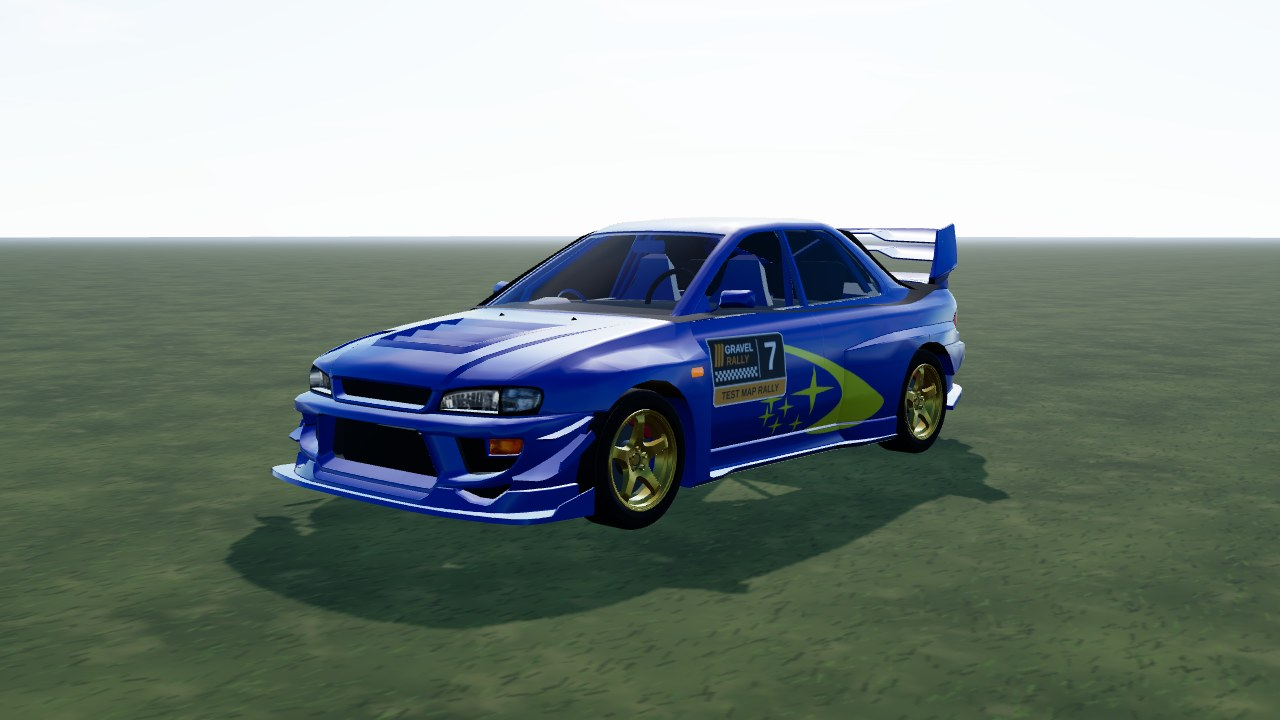
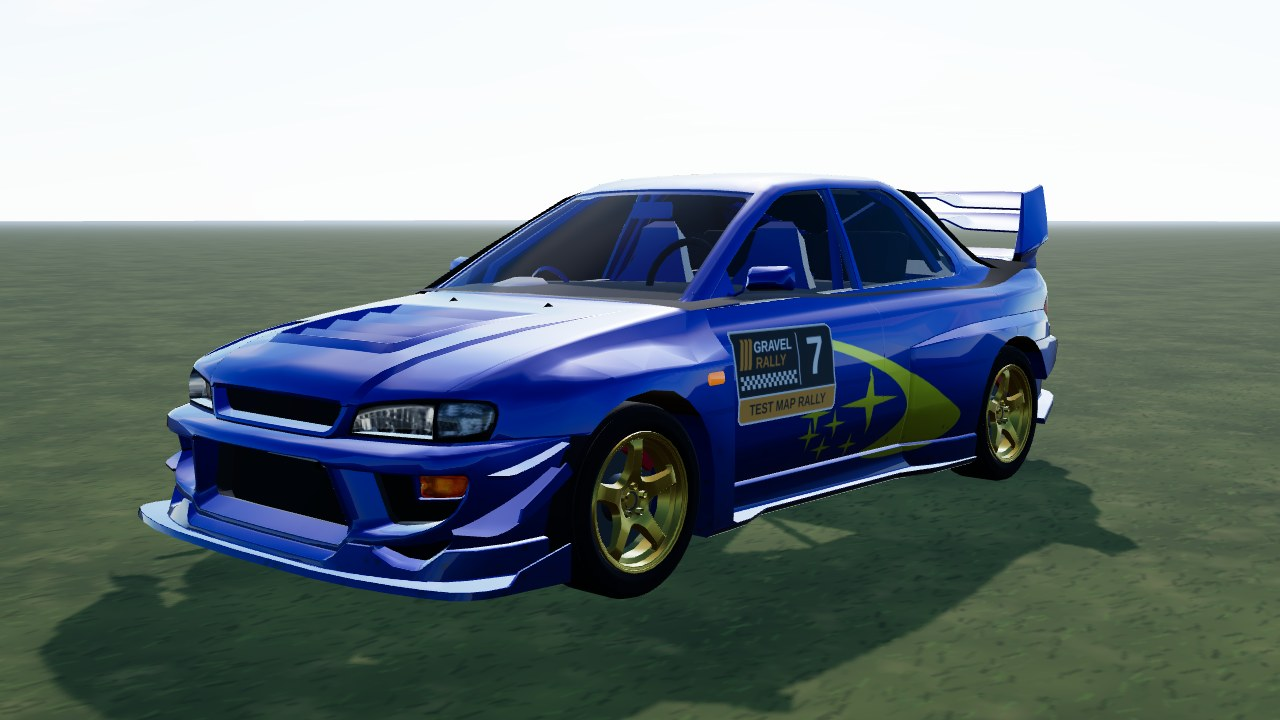
22B: metallic paint with dust and road spray
- `gltf.metallic` finish: more metal, glossier clearcoat
- sill dust fade + speckle round the arches on the body atlas
- retake screenshots

diff --git a/src/games/rally/cars/subie-22b/livery.ts b/src/games/rally/cars/subie-22b/livery.ts
@@ -1,3 +1,4 @@
+import { Rng } from '../../../../shared/rng';
 import { atlasKit, type Pt } from '../shared/atlas-painter';
 import type { LiveryInfo } from '../shared/livery';
 import type { CarAtlas } from '../shared/types';
@@ -10,7 +11,7 @@ import source from './model.source.json';
  * (no lettering), always pointing forward.
  */
 const A = source.atlas;
-const { K, B, CH, Painter } = atlasKit(A);
+const { K, B, CH, Painter, sidePx, frontPx, rearPx } = atlasKit(A);
 
 const YELLOW = '#e8f03a';
 /** Vertical extent on the body side (m): 10 cm above the body's lower edge up to 10 cm below the window sills. */
@@ -101,7 +102,66 @@ const at = ([x, y]: Pt): Pt => [
   Y_BOTTOM + (REF_Y[1] - y) * PX,
 ];
 
-function paint(ctx: CanvasRenderingContext2D, info: LiveryInfo): void {
+/** Dust and mud on the lower body: a fade towards the sills on every chart, plus road-spray speckle round the arches. */
+function weather(ctx: CanvasRenderingContext2D, seed: number): void {
+  const rng = new Rng(0x22b + seed);
+  const yTop = 0.5; // dirt starts this high
+  const yLow = B.y[0];
+  const px = (
+    chart: 'left' | 'right' | 'front' | 'rear',
+    z: number,
+    y: number,
+  ): Pt =>
+    chart === 'front'
+      ? frontPx(z, y)
+      : chart === 'rear'
+        ? rearPx(z, y)
+        : sidePx(chart, z, y);
+  const size = (chart: 'left' | 'right' | 'front' | 'rear') =>
+    chart === 'front' || chart === 'rear'
+      ? [B.x[1] - B.x[0], B.y[1] - B.y[0]]
+      : [B.z[1] - B.z[0], B.y[1] - B.y[0]];
+  for (const chart of ['left', 'right', 'front', 'rear'] as const) {
+    const [cx, cy] = CH[chart];
+    const [w, h] = size(chart);
+    ctx.save();
+    ctx.beginPath();
+    ctx.rect(cx * K, cy * K, w * K, h * K);
+    ctx.clip();
+    const g = ctx.createLinearGradient(
+      0,
+      px(chart, 0, yTop)[1],
+      0,
+      px(chart, 0, yLow)[1],
+    );
+    g.addColorStop(0, 'rgba(112,92,64,0)');
+    g.addColorStop(1, 'rgba(112,92,64,0.5)');
+    ctx.fillStyle = g;
+    ctx.fillRect(cx * K, cy * K, w * K, h * K);
+    // Speckle: spray thrown up by the wheels, densest low down and round the arches (z of the axles).
+    const arches = chart === 'left' || chart === 'right' ? [1.08, -1.46] : [0];
+    for (let i = 0; i < 900; i++) {
+      const arch = rng.pick(arches);
+      const z =
+        chart === 'left' || chart === 'right'
+          ? arch + rng.gauss() * 0.45
+          : rng.range(B.x[0], B.x[1]);
+      const y = yLow + Math.abs(rng.gauss()) * 0.16;
+      const [x0, y0] = px(chart, z, y);
+      ctx.fillStyle = `rgba(${rng.int(70, 110)},${rng.int(55, 85)},${rng.int(40, 60)},${rng.range(0.1, 0.32)})`;
+      ctx.beginPath();
+      ctx.arc(x0, y0, rng.range(0.003, 0.011) * K, 0, Math.PI * 2);
+      ctx.fill();
+    }
+    ctx.restore();
+  }
+}
+
+function paint(
+  ctx: CanvasRenderingContext2D,
+  info: LiveryInfo,
+  seed = 0,
+): void {
   ctx.fillStyle = info.base;
   ctx.fillRect(0, 0, ctx.canvas.width, ctx.canvas.height);
   // Dark undercoat on the bottom chart (bumper / sill undersides).
@@ -113,6 +173,7 @@ function paint(ctx: CanvasRenderingContext2D, info: LiveryInfo): void {
   p.side(smooth(CRESCENT).map(at), YELLOW);
   for (const [cx, cy, rh, rv] of STARS)
     p.side(star(cx, cy, rh, rv).map(at), YELLOW);
+  weather(ctx, seed); // over the graphic too: the yellow gets dusty like the paint
 }
 
 export const subie22bLivery: CarAtlas = {

diff --git a/src/games/rally/cars/shared/car-model.ts b/src/games/rally/cars/shared/car-model.ts
@@ -494,7 +494,11 @@ export class CarModel {
                 atlas,
                 info,
                 opts.seed ?? 0,
-                matte ? 'matte' : 'gloss',
+                matte
+                  ? 'matte'
+                  : def.model.gltf?.metallic
+                    ? 'metallic'
+                    : 'gloss',
               );
               // The livery goes on the body; named parts (glass, trim, lamps...) keep
               // their own materials, so the paint can never bleed onto them.
@@ -669,10 +673,11 @@ export class CarModel {
     atlas: CarAtlas,
     info: LiveryInfo,
     seed: number,
-    finish: 'gloss' | 'satin' | 'matte',
+    finish: 'gloss' | 'satin' | 'matte' | 'metallic',
   ): MeshPhysicalMaterial {
     const matte = finish === 'matte';
     const satin = finish === 'satin';
+    const metallic = finish === 'metallic';
     const canvas = document.createElement('canvas');
     canvas.width = atlas.width;
     canvas.height = atlas.height;
@@ -683,10 +688,10 @@ export class CarModel {
     map.anisotropy = 8;
     const mat = new MeshPhysicalMaterial({
       map,
-      metalness: matte ? 0 : satin ? 0.1 : 0.2,
-      roughness: matte ? 0.88 : satin ? 0.58 : 0.45,
+      metalness: matte ? 0 : satin ? 0.1 : metallic ? 0.55 : 0.2,
+      roughness: matte ? 0.88 : satin ? 0.58 : metallic ? 0.34 : 0.45,
       clearcoat: matte ? 0 : satin ? 0.35 : 1,
-      clearcoatRoughness: satin ? 0.4 : 0.12,
+      clearcoatRoughness: satin ? 0.4 : metallic ? 0.04 : 0.12,
     });
     if (atlas.matteRect && !matte) {
       // Matte patch (wheel arches): rough + no clearcoat where the atlas says so.
@@ -704,8 +709,9 @@ export class CarModel {
         t.flipY = false;
         return t;
       };
+      const bodyRoughness = mat.roughness;
       mat.roughness = 1;
-      mat.roughnessMap = maskTex(Math.round(0.45 * 255), 255);
+      mat.roughnessMap = maskTex(Math.round(bodyRoughness * 255), 255);
       mat.clearcoatMap = maskTex(255, 0);
       this.owned.push(mat.roughnessMap, mat.clearcoatMap);
     }

diff --git a/src/games/rally/cars/shared/types.ts b/src/games/rally/cars/shared/types.ts
@@ -177,6 +177,8 @@ export interface CarGltfDef {
   atlas?: CarAtlas;
   /** Satin paint instead of glossy clearcoat (atlas models only). */
   matte?: boolean;
+  /** Metallic paint (pearl / mica): more metal, glossier clearcoat, so the sky and ground show in the panels (atlas models only). */
+  metallic?: boolean;
   /** Procedural add-ons layered on the imported body (pod lights, mudflaps, roof vent, wing, cockpit). */
   addOns?: Pick<
     CarParts,

diff --git a/src/games/rally/cars/subie-22b/subie-22b.ts b/src/games/rally/cars/subie-22b/subie-22b.ts
@@ -211,6 +211,7 @@ export const subie22b: CarDef = {
         'Body: "1999 Subaru MPREZA WRX STi GC8 Minotaurus" by SIU Car Garage (Sketchfab, CC BY-NC 4.0), converted + repainted',
       autoFit: false,
       atlas: subie22bLivery,
+      metallic: true,
       addOns: { cockpit: 'road' },
     },
   },

diff --git a/src/games/rally/cars/subie-22b/README.md b/src/games/rally/cars/subie-22b/README.md
@@ -8,7 +8,7 @@ with their art cut out of its texture (`subie_22b_lamps.png`). The model has no 
 dash, wheel, headliner) shows through the tinted windows. Specs follow the 22B: 2.2 l turbo flat-four (~280 PS, 363 Nm),
 five-speed box, permanent AWD with a rear bias, 1,270 kg ([STI](https://www.sti.jp/en/roadcars/1998/impreza-22b.html)).
 Tyres 235/40 R17 (the real size; the model's wheel is cut out and centred on the hub axis), 215/55 R16 on gravel. The body is
-lifted 5 cm for clearance. **Test only** (`TEST_CARS` in `release.ts`).
+lifted 5 cm for clearance. The paint is a metallic mica blue (`gltf.metallic`) with dust and road spray towards the sills. **Test only** (`TEST_CARS` in `release.ts`).
 
 ![Front three-quarter](screenshots/front-34.jpg)
 
